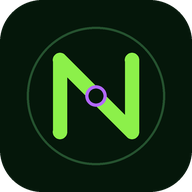
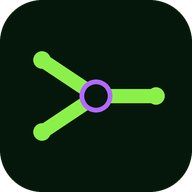
FOR.A.AS 4.0.0

diff --git a/index.html b/index.html
@@ -3,7 +3,7 @@
 <head>
 <meta charset="utf-8">
 <meta name="viewport" content="width=device-width, initial-scale=1.0, viewport-fit=cover">
-<title>NEXFOR</title>
+<title>FOR.A.AS · Plataforma Educativa</title>
 
 <link rel="manifest" href="./manifest.webmanifest">
 <link rel="icon" href="./favicon.png">
@@ -12,14 +12,14 @@
 <meta name="mobile-web-app-capable" content="yes">
 <meta name="apple-mobile-web-app-capable" content="yes">
 <meta name="apple-mobile-web-app-status-bar-style" content="black-translucent">
-<meta name="apple-mobile-web-app-title" content="NEXFOR">
-<meta name="description" content="NEXFOR · El nexo entre la vocación y el servicio">
+<meta name="apple-mobile-web-app-title" content="FOR.A.AS">
+<meta name="description" content="FOR.A.AS · Formación · Aspirantes a Agente de Seguridad">
 
 <link href="https://fonts.googleapis.com/css2?family=Exo+2:wght@500;700;800;900&family=Manrope:wght@400;500;600;700;800&family=JetBrains+Mono:wght@400;600;700&display=swap" rel="stylesheet">
 
 <style>
 /* ============================================================
-   NEXFOR · Secretaría Académica DCFyCCCO · MLF&EV
+   FOR.A.AS · Secretaría Académica DCFyCCCO · MLF&EV
    Base Monte + el segundo color que elige cada usuario
    ============================================================ */
 :root{
@@ -73,9 +73,13 @@ body::after{content:"";position:fixed;bottom:-28vmax;right:-20vmax;width:56vmax;
 @keyframes brilla{0%,100%{background-position:0% 0}50%{background-position:180% 0}}
 .escudo{width:50px;height:50px;object-fit:contain;flex:0 0 auto;
   filter:drop-shadow(0 4px 12px rgba(0,0,0,.45));animation:respira 5.5s ease-in-out infinite .8s}
+.word i{font-style:normal;-webkit-text-fill-color:var(--duo)}
+.marca .w i{font-style:normal;-webkit-text-fill-color:var(--duo)}
+.sub-plat{text-align:center;font-family:var(--f-mono);font-size:10px;letter-spacing:.22em;
+  text-transform:uppercase;color:var(--txt-2);margin:0 0 5px}
 .lema{text-align:center;font-family:var(--f-display);font-weight:700;font-size:12.5px;
   letter-spacing:.1em;text-transform:uppercase;color:var(--txt-2);margin:0 0 24px}
-.lema b{color:var(--acc);font-weight:800}.lema i{color:var(--duo);font-style:normal;font-weight:800}
+.lema{color:var(--acc)}.lema b{color:var(--acc);font-weight:800}
 .signif{position:relative;overflow:hidden;font-size:12.5px;line-height:1.7;color:var(--txt-2);
   text-align:center;padding:15px 17px;border-radius:var(--r);margin-bottom:22px;
   background:color-mix(in srgb,var(--acc) 7%,var(--surf));
@@ -426,27 +430,36 @@ table{min-width:0}
 <section id="pLogin" class="z">
   <div class="caja">
     <div class="lockup">
-      <svg class="mark" viewBox="0 0 64 64" aria-label="NEXFOR">
+      <svg class="mark" viewBox="0 0 64 64" aria-label="FOR.A.AS">
         <circle cx="32" cy="32" r="30" fill="none" stroke="var(--line)" stroke-width="1.5"/>
         <circle cx="32" cy="32" r="24" fill="color-mix(in srgb,var(--acc) 9%,transparent)"/>
-        <path d="M20 44 V20 L44 44 V20" fill="none" stroke="var(--acc)" stroke-width="4.5"
-              stroke-linecap="round" stroke-linejoin="round" stroke-dasharray="90" stroke-dashoffset="90">
-          <animate attributeName="stroke-dashoffset" from="90" to="0" dur="1.5s" fill="freeze"/>
-        </path>
-        <circle cx="32" cy="32" r="4.6" fill="var(--bg)" stroke="var(--duo)" stroke-width="2.6">
-          <animate attributeName="r" values="4.6;6.2;4.6" dur="3.2s" begin="1.4s" repeatCount="indefinite"/>
+        <g stroke="var(--acc)" stroke-width="4.4" stroke-linecap="round" fill="none">
+          <path d="M32 32 L14 20"><animate attributeName="stroke-dasharray" from="0 30" to="30 0"
+            dur="0.8s" fill="freeze"/></path>
+          <path d="M32 32 L14 44"><animate attributeName="stroke-dasharray" from="0 30" to="30 0"
+            dur="0.8s" begin="0.25s" fill="freeze"/></path>
+          <path d="M32 32 L52 32"><animate attributeName="stroke-dasharray" from="0 24" to="24 0"
+            dur="0.8s" begin="0.5s" fill="freeze"/></path>
+        </g>
+        <circle cx="14" cy="20" r="3.6" fill="var(--acc)"/>
+        <circle cx="14" cy="44" r="3.6" fill="var(--acc)"/>
+        <circle cx="52" cy="32" r="3.6" fill="var(--acc)"/>
+        <circle cx="32" cy="32" r="5.2" fill="var(--bg)" stroke="var(--duo)" stroke-width="2.8">
+          <animate attributeName="r" values="5.2;6.8;5.2" dur="3.2s" begin="1.3s"
+            repeatCount="indefinite"/>
         </circle>
       </svg>
-      <h1 class="word">NEXFOR</h1>
+      <h1 class="word">FOR<i>.</i>A<i>.</i>AS</h1>
       <img class="escudo" src="./escudo.png" alt="Escudo institucional">
     </div>
 
-    <p class="lema">El nexo entre la <b>vocación</b> y el <i>servicio</i></p>
+    <p class="sub-plat">Plataforma Educativa</p>
+    <p class="lema">Formación · Aspirantes a Agente de Seguridad</p>
 
     <div class="signif">
-      <b>NEXFOR</b> nace de <b>nexo</b> y <b>formación</b>: el punto de encuentro entre la
-      enseñanza de la Escuela y las herramientas del futuro. Un nexo entre el aspirante,
-      el docente y el conocimiento.
+      <b>Formando a quienes elegirán servir.</b> Un punto de encuentro entre la enseñanza de la
+      Escuela y las herramientas del futuro. Una sola conexión entre el aspirante, el docente
+      y el conocimiento.
     </div>
 
     <div class="campo">
@@ -475,11 +488,10 @@ table{min-width:0}
     <div class="lockup">
       <svg class="mark" viewBox="0 0 64 64">
         <circle cx="32" cy="32" r="30" fill="none" stroke="var(--line)" stroke-width="1.5"/>
-        <path d="M20 44 V20 L44 44 V20" fill="none" stroke="var(--acc)" stroke-width="4.5"
-              stroke-linecap="round" stroke-linejoin="round"/>
-        <circle cx="32" cy="32" r="4.6" fill="var(--bg)" stroke="var(--duo)" stroke-width="2.6"/>
-      </svg>
-      <h1 class="word" style="font-size:34px">NEXFOR</h1>
+        <path d="M32 32 L14 20 M32 32 L14 44 M32 32 L52 32" fill="none" stroke="var(--acc)"
+              stroke-width="4.4" stroke-linecap="round"/>
+        <circle cx="32" cy="32" r="5.2" fill="var(--bg)" stroke="var(--duo)" stroke-width="2.8"/></svg>
+      <h1 class="word" style="font-size:30px">FOR<i>.</i>A<i>.</i>AS</h1>
     </div>
     <div class="avi">
       <b>Antes de entrar, cambiá tu contraseña.</b> Estás usando la clave inicial, que la conoce
@@ -503,11 +515,12 @@ table{min-width:0}
   <header class="top z">
     <button class="ib" id="btnMenu" style="display:none">☰</button>
     <div class="marca">
-      <svg viewBox="0 0 64 64"><circle cx="32" cy="32" r="30" fill="none" stroke="var(--line)" stroke-width="2"/>
-        <path d="M20 44 V20 L44 44 V20" fill="none" stroke="var(--acc)" stroke-width="5"
-              stroke-linecap="round" stroke-linejoin="round"/>
-        <circle cx="32" cy="32" r="4.4" fill="var(--bg)" stroke="var(--duo)" stroke-width="2.6"/></svg>
-      <span class="w">NEXFOR</span><img src="./escudo.png" alt="">
+      <svg viewBox="0 0 64 64">
+        <circle cx="32" cy="32" r="30" fill="none" stroke="var(--line)" stroke-width="2"/>
+        <path d="M32 32 L14 20 M32 32 L14 44 M32 32 L52 32" fill="none" stroke="var(--acc)"
+              stroke-width="5" stroke-linecap="round"/>
+        <circle cx="32" cy="32" r="5" fill="var(--bg)" stroke="var(--duo)" stroke-width="3"/></svg>
+      <span class="w">FOR<i>.</i>A<i>.</i>AS</span><img src="./escudo.png" alt="">
     </div>
     <button class="ib" id="btnCampana" title="Novedades" style="position:relative">&#128276;<span
       class="badge" id="badgeN" style="display:none">0</span></button>
@@ -537,14 +550,14 @@ table{min-width:0}
 
 <!-- ==================== CARTEL DE INSTALACIÓN ==================== -->
 <div id="nuevaVer">
-  <div class="t"><b>Hay una versión nueva de NEXFOR</b>Se actualiza al recargar. No se pierde
+  <div class="t"><b>Hay una versión nueva de FOR.A.AS</b>Se actualiza al recargar. No se pierde
     nada de lo cargado.</div>
   <button class="btn chico" id="btnActualizar">Actualizar ahora</button>
   <button class="ib" id="btnLuego">✕</button>
 </div>
 
 <div id="instalar">
-  <div class="t"><b>Instalá NEXFOR</b>Queda como una app, abre directo y anda más rápido.</div>
+  <div class="t"><b>Instalá FOR.A.AS</b>Queda como una app, abre directo y anda más rápido.</div>
   <button class="btn chico" id="btnInstalar">Instalar</button>
   <button class="ib" id="btnNoInstalar">✕</button>
 </div>
@@ -555,11 +568,11 @@ table{min-width:0}
 <script>
 
 /* ============================================================================
-   NEXFOR 2.1.0 · Secretaría Académica DCFyCCCO · MLF&EV
-   Entrega 2 · Centro de Comando · Horarios · Revisión de Aspirantes ·
+   FOR.A.AS · Secretaría Académica DCFyCCCO · MLF&EV
+   Plataforma Educativa · Centro de Comando · Horarios · Revisión de Aspirantes ·
               Libro de Temas con firma · Asistencia · Calificaciones · Mi Perfil
    ============================================================================ */
-const VERSION = '3.3.1';
+const VERSION = '4.0.0';
 const SUPA_URL = 'https://kduwezgatmloujsmfzji.supabase.co';
 const SUPA_KEY = 'sb_publishable_SU2oC08EGUgC_FUFl8TKlA_Rj0YKP_v';
 const DOMINIO  = '@dcfyccco.local';
@@ -651,7 +664,7 @@ async function entrar(){
       texto = msg + (cod ? ' (código ' + cod + ')' : '');
     }
     errEn('errLogin', texto);
-    try{ console.error('NEXFOR · error de ingreso:', cod, msg, e); }catch(x){}
+    try{ console.error('FOR.A.AS · error de ingreso:', cod, msg, e); }catch(x){}
     return;
   }
   await traerPerfil();
@@ -740,7 +753,7 @@ const MENU = [
   ['Comunicación', [['mensajes','\u2709\uFE0F','Mensajes', ()=>true],
                  ['comunicados','\uD83D\uDCE3','Comunicados', ()=>true],
                  ['novedades','\uD83D\uDDD2','Novedades', puedeAcademico]]],
-  ['Inteligencia', [['nexia','\u2726','NEXIA · Copiloto', ()=>true],
+  ['Inteligencia', [['nexia','\u2726','AVA · Asistente Virtual', ()=>true],
                  ['institucional','\uD83D\uDCC8','Inteligencia Institucional',
                   ()=>puedeAcademico()||esInstr()]]],
   ['Seguimiento', [['perfil360','\uD83D\uDDC2','Perfil 360°', ()=>puedeAcademico()||esInstr()],
@@ -1654,7 +1667,7 @@ async function vMaterial(){
   $('vista').innerHTML = '<h2 class="tit">Material de Estudio</h2>'+
     '<p class="sub">'+(esGestion()?'Todas las materias'
       : puede?'Tus materias asignadas':'Material publicado para tu sección')+
-    ' · lo que se sube acá NEXIA lo puede leer</p>'+
+    ' · lo que se sube acá AVA lo puede leer</p>'+
 
     (puede ? '<div class="card"><h3>\uD83D\uDCE4 Subir material</h3>'+
       '<div class="fila"><select id="maMat">'+opciones(puedo,'','id','nombre')+'</select>'+
@@ -1662,12 +1675,12 @@ async function vMaterial(){
         secs.map(s=>'<option>'+s+'</option>').join('')+'</select></div>'+
       '<div class="campo"><input id="maTit" placeholder="Título del material"></div>'+
       '<div class="zona" id="maZona"><b>Elegí un archivo</b>'+
-        'Word o PDF · el texto se extrae acá y queda para NEXIA</div>'+
+        'Word o PDF · el texto se extrae acá y queda para AVA</div>'+
       '<input type="file" id="maArch" accept=".docx,.pdf,.doc" style="display:none">'+
       '<label style="display:flex;align-items:center;gap:7px;font-family:var(--f-body);'+
         'font-size:12.5px;letter-spacing:0;text-transform:none;color:var(--txt);margin:11px 0 0">'+
         '<input type="checkbox" id="maOculto" style="width:auto;padding:0"> '+
-        'Solo para NEXIA · no aparece en la lista de los aspirantes</label>'+
+        'Solo para AVA · no aparece en la lista de los aspirantes</label>'+
       '<div class="fila" style="margin:12px 0 0">'+
         '<input id="maLink" placeholder="…o pegá un link de Drive / YouTube" style="flex:1;min-width:180px">'+
         '<button class="btn chico" id="maLinkOk">Guardar link</button></div>'+
@@ -1762,7 +1775,7 @@ async function subirMaterial(e){
       'Avisale a Secretaría Académica.</div>';
     $('maZona').innerHTML = '<b>Elegí un archivo</b>Word o PDF'; return;
   }
-  $('maZona').innerHTML = '<b>Leyendo el texto para NEXIA…</b>'+esc(archivo.name);
+  $('maZona').innerHTML = '<b>Leyendo el texto para AVA…</b>'+esc(archivo.name);
   let trozos = [];
   try{ trozos = await extraerTexto(archivo); }catch(err){ trozos = []; }
   if(trozos.length){
@@ -1775,7 +1788,7 @@ async function subirMaterial(e){
   $('maMsg').innerHTML = '<div class="ok-msg">Subido a '+
     esc((D.materias.filter(m=>m.id===$('maMat').value)[0]||{}).nombre)+
     ' · '+esc($('maSec').value || 'todas las secciones')+
-    (trozos.length ? ' · NEXIA leyó '+trozos.length+(trozos.length===1?' bloque':' bloques')
+    (trozos.length ? ' · AVA leyó '+trozos.length+(trozos.length===1?' bloque':' bloques')
       : ' · no pude leer el texto de este formato')+'</div>';
   medirEspacio(); listaMaterial();
 }
@@ -1817,8 +1830,8 @@ async function listaMaterial(){
     '<div><div class="q">'+esc(m.titulo)+'</div><div class="p">'+
       (m.seccion?'<span class="chip w">'+esc(m.seccion)+'</span>'
                 :'<span class="chip g">todas las secciones</span>')+' '+esc(m.fecha)+
-      (leidos[m.id] ? ' · <span class="chip d">NEXIA lo leyó</span>' : '')+
-      (m.visible === false ? ' · <span class="chip w">solo NEXIA</span>' : '')+'</div></div>'+
+      (leidos[m.id] ? ' · <span class="chip d">AVA lo leyó</span>' : '')+
+      (m.visible === false ? ' · <span class="chip w">solo AVA</span>' : '')+'</div></div>'+
     '<div class="r"><button class="btn chico fant" data-abrir="'+m.id+'">Abrir</button>'+
       (puedoSubir[m.materia_id] ? ' <button class="btn chico rojo" data-borrar="'+m.id+
         '">Borrar</button>':'')+'</div></div>';
@@ -1841,7 +1854,7 @@ async function listaMaterial(){
     const m = filas.filter(x=>x.id===b.dataset.borrar)[0];
     modal('Borrar el material', m.titulo,
       '<p style="font-size:12.5px;color:var(--txt-2)">Se borra el archivo y el texto que '+
-      'NEXIA había leído. No se puede deshacer.</p>', async function(){
+      'AVA había leído. No se puede deshacer.</p>', async function(){
         if(m.archivo_path) await sb.storage.from('materiales').remove([m.archivo_path]);
         await sb.from('materiales').delete().eq('id', m.id);
         cerrar(); medirEspacio(); listaMaterial(); aviso('Material borrado');
@@ -1849,11 +1862,12 @@ async function listaMaterial(){
   });
 }
 
-/* ==================== NEXIA ==================== */
+/* ==================== AVA · Asistente Virtual Académica ==================== */
 let FAQ = null;
 async function vNexia(){
-  $('vista').innerHTML = '<h2 class="tit">NEXIA · Copiloto</h2>'+
-    '<p class="sub">Responde con lo que cargó Secretaría Académica y con el material subido</p>'+
+  $('vista').innerHTML = '<h2 class="tit">AVA</h2>'+
+    '<p class="sub">Asistente Virtual Académica · responde con lo que cargó Secretaría '+
+    'Académica y con el material subido</p>'+
     '<div class="card"><div class="chat" id="nxChat">'+
       '<div class="msg ia">Hola. Preguntame lo que necesites: busco en las respuestas '+
       'cargadas y dentro del material de estudio.</div></div>'+
@@ -1913,10 +1927,10 @@ async function pendientesNexia(){
     '<div class="av">\u2726</div><div><div class="q">«'+esc(c.mensaje)+'»</div>'+
     '<div class="p">'+esc(String(c.fecha||'').slice(0,16).replace('T',' '))+'</div></div>'+
     '<div class="r"><button class="btn chico" data-resp="'+c.id+'">Responder</button></div></div>').join('');
-  $('nxPend').innerHTML = '<div class="card"><h3>\u2726 Consultas sin responder '+
+  $('nxPend').innerHTML = '<div class="card"><h3>\u2726 Consultas que AVA no supo responder '+
     '<span class="cnt">'+(r.data||[]).length+' pendientes</span></h3>'+
     '<p style="font-size:12px;color:var(--txt-2);margin:-6px 0 12px">Respondelas una vez y '+
-    'NEXIA las contesta sola de acá en adelante.</p>'+
+    'AVA las contesta sola de acá en adelante.</p>'+
     (items || '<div class="vacio">No hay consultas pendientes.</div>')+'</div>';
   $('nxPend').querySelectorAll('button[data-resp]').forEach(b => b.onclick = function(){
     const c = (r.data||[]).filter(x=>x.id===b.dataset.resp)[0];
@@ -1926,7 +1940,7 @@ async function pendientesNexia(){
       '<div class="campo"><label>Palabras clave para que la reconozca</label>'+
       '<input id="nxC" placeholder="uniforme, entrega, gala"></div>'+
       '<p style="font-size:11.5px;color:var(--txt-2);margin:0">Separadas por coma. Si la '+
-      'consulta de alguien contiene una de estas, NEXIA responde esto solo.</p>',
+      'consulta de alguien contiene una de estas, AVA responde esto solo.</p>',
       async function(){
         const resp = $('nxR').value.trim(); if(!resp){ aviso('Escribí la respuesta'); return; }
         const claves = $('nxC').value.trim();
@@ -2359,8 +2373,13 @@ function editarUsuario(u){
     '<div class="campo"><label>Estado</label><select id="euAc">'+
       '<option value="si" '+(u.activo!==false?'selected':'')+'>Activo</option>'+
       '<option value="no" '+(u.activo===false?'selected':'')+'>Dado de baja</option></select></div>'+
-    (esAdmin()?'<p style="font-size:11.5px;color:var(--txt-2);margin:0">Dar de baja no borra '+
-      'nada: la persona no puede entrar pero sus registros quedan.</p>':''),
+    (esAdmin()?'<p style="font-size:11.5px;color:var(--txt-2);margin:0 0 12px">Dar de baja no '+
+      'borra nada: la persona no puede entrar pero todos sus registros quedan.</p>'+
+      (u.id === PERFIL.id ? ''
+        : '<div style="border-top:1px solid var(--line);padding-top:12px">'+
+          '<button class="btn chico rojo" id="euBorrar">Borrar la cuenta definitivamente</button>'+
+          '<p style="font-size:11px;color:var(--txt-2);margin:8px 0 0">Solo para cuentas '+
+          'cargadas por error. Se pierde el historial de esa persona.</p></div>') :''),
     async function(){
       $('mOk').disabled = true;
       const r = await sb.from('perfiles').update({
@@ -2374,7 +2393,39 @@ function editarUsuario(u){
       if(r.error){ aviso('No se pudo: '+r.error.message); return; }
       cerrar(); listaUsuarios(); D.aspirantes = null; aviso('Guardado');
     });
+  setTimeout(function(){
+    if($('euBorrar')) $('euBorrar').onclick = function(){ borrarUsuario(u); };
+  }, 60);
 }
+
+/* --- borrado definitivo, con confirmación escrita --- */
+function borrarUsuario(u){
+  const nombre = (u.apellido||'')+' '+(u.nombre||'');
+  cerrar();
+  modal('Borrar la cuenta de '+nombre, 'Esto no se puede deshacer',
+    '<div class="err" style="margin:0 0 12px">Al borrar la cuenta de <b>'+esc(nombre)+
+      '</b> se elimina también todo lo que tenga cargado:<br><br>'+
+      '· calificaciones y promedios<br>· asistencias<br>· conducta y amonestaciones<br>'+
+      '· certificados médicos<br>· entregas y exámenes rendidos<br><br>'+
+      'Los temas del libro que haya firmado quedan, pero sin su nombre.</div>'+
+    '<p style="font-size:12.5px;color:var(--txt-2);margin:0 0 10px">Si la persona simplemente '+
+      'se fue de la Escuela, <b style="color:var(--txt)">no uses esto</b>: cerrá esta ventana y '+
+      'ponela como «Dada de baja». Así no puede entrar pero su legajo se conserva.</p>'+
+    '<div class="campo"><label>Para confirmar, escribí el usuario: '+esc(u.usuario)+'</label>'+
+      '<input id="boConf" placeholder="'+esc(u.usuario)+'" autocapitalize="none"></div>',
+    async function(){
+      if($('boConf').value.trim().toLowerCase() !== String(u.usuario).toLowerCase()){
+        aviso('El usuario no coincide'); return;
+      }
+      $('mOk').disabled = true; $('mOk').textContent = 'Borrando…';
+      const r = await llamarAdmin({accion:'borrar', id:u.id});
+      $('mOk').disabled = false; $('mOk').textContent = 'Borrar';
+      if(r.error){ aviso('No se pudo borrar: '+r.error); return; }
+      cerrar(); D.aspirantes = null; listaUsuarios();
+      aviso('Cuenta de '+nombre+' borrada');
+    }, 'Borrar');
+}
+
 function blanquear(u){
   modal('Blanquear la contraseña', u.apellido+' · '+u.usuario,
     '<div class="campo"><label>Contraseña nueva</label>'+
@@ -3659,7 +3710,7 @@ function abrirConfig(){
 
   h += '<div class="hsep">Sobre la app</div>';
   h += fila('version', '\uD83C\uDFF7\uFE0F', 'Versión '+VERSION,
-    'NEXFOR · Secretaría Académica · DCFyCCCO');
+    'FOR.A.AS · Secretaría Académica · DCFyCCCO');
   h += '</div>';
 
   modal('Configuración', esc(comoSaludar(PERFIL))+' · '+
@@ -3731,7 +3782,7 @@ async function accionConfig(a){
     setTimeout(activarOjos, 60);
     return;
   }
-  if(a === 'version'){ aviso('NEXFOR '+VERSION+' · al día'); return; }
+  if(a === 'version'){ aviso('FOR.A.AS '+VERSION+' · al día'); return; }
 
   const destinos = { perfil:'perfil', imprimir:'libro', informes:'informes',
     reset:'usuarios', accesos:'panel', recorrido:'panel', panel:'panel', revision:'panel' };
@@ -3751,8 +3802,8 @@ async function traerAvisos(){
 
   if(esGestion()){
     const rc = await sb.from('consultas_nexia').select('id').eq('estado','abierta');
-    if((rc.data||[]).length) av.push({k:'NEXIA', q:(rc.data||[]).length+' consultas sin responder',
-      p:'Respondelas una vez y NEXIA las contesta sola', v:'nexia', n:(rc.data||[]).length,
+    if((rc.data||[]).length) av.push({k:'AVA', q:(rc.data||[]).length+' consultas sin responder',
+      p:'Respondelas una vez y AVA las contesta sola', v:'nexia', n:(rc.data||[]).length,
       c:'var(--acc)'});
     const rt = await sb.from('tramites').select('id').eq('estado','pendiente');
     if((rt.data||[]).length) av.push({k:'MESA DE ENTRADAS', q:(rt.data||[]).length+' trámites pendientes',

diff --git a/sw.js b/sw.js
@@ -1,7 +1,7 @@
-/* NEXFOR · service worker
+/* FOR.A.AS · service worker
    Guarda el armazón de la app para que abra sin conexión.
    Los datos NO se guardan acá: van y vienen de Supabase. */
-const CACHE = 'nexfor-3.3.1';
+const CACHE = 'foraas-4.0.0';
 const BASICOS = [
   './', './index.html', './manifest.webmanifest',
   './escudo.png', './icon-192.png', './icon-512.png',
